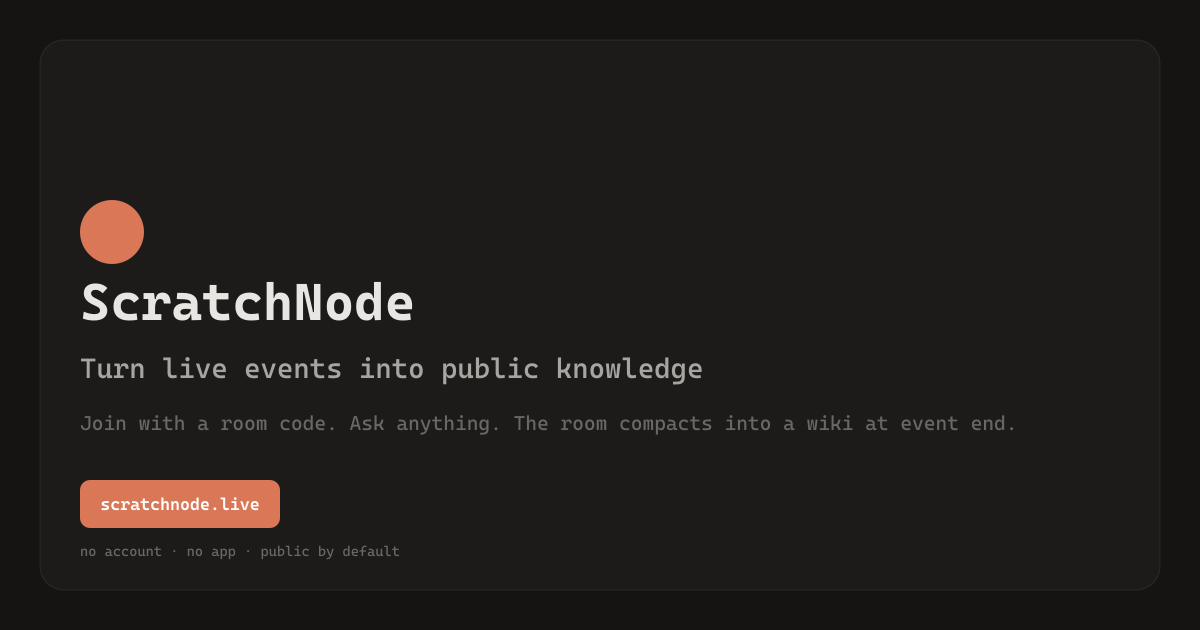
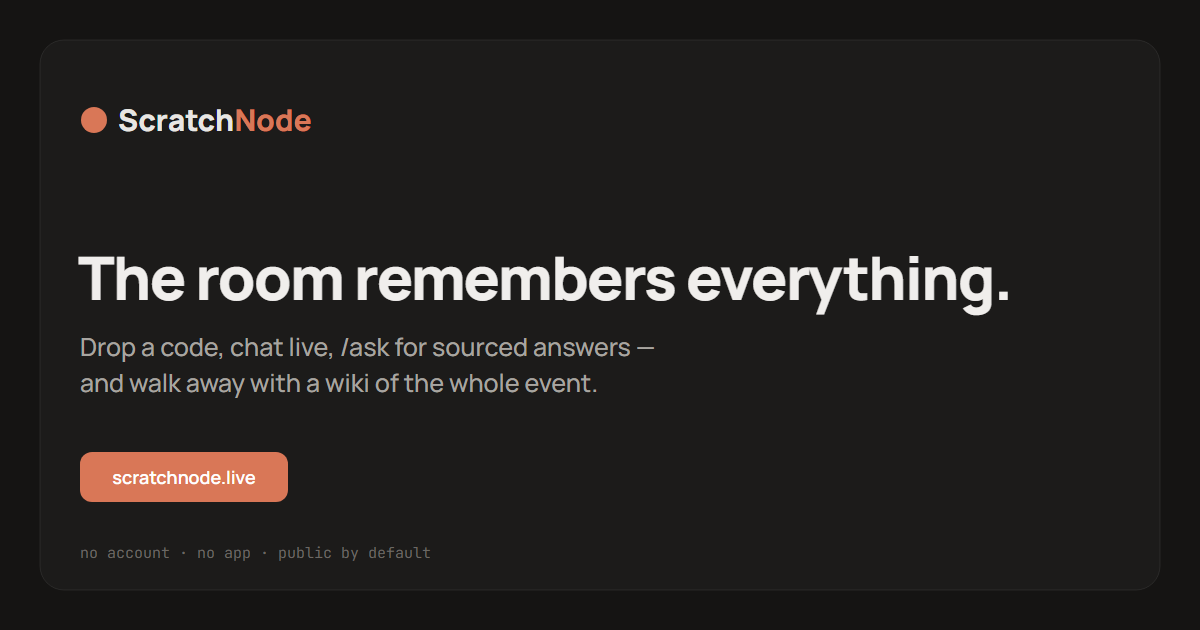
feat(scratchnode): live "big number" room counter on the landing (#473)
* feat(scratchnode): live "big number" room counter on the landing

Add an animated, reactive hero stat to the apex landing: a large room count
that ticks up the instant anyone, anywhere, creates a room — driven by a new
reactive Convex query events:getLandingStats (bounded scan, returns
{ roomsCreated, liveNow, capped }), not a client timer. A pulsing
"● N live right now" sub-line shows open rooms.

The counter gently floats with a soft accent glow; the number animates up via a
cubic ease when the reactive value changes. Motion-safe: subtle translate + a
small status-dot ring (no flashing), all gated under prefers-reduced-motion;
mobile scales the digits down.

Honesty (agentic_reliability HONEST_SCORES): every figure is a real row count,
no fabricated marketing number. The stat is hidden entirely until the backend
reports >=1 room (so an empty/offline backend never flashes a fake "0"),
enforced by both the render() guard and a .landing-pulse[hidden]{display:none}
rule (a class selector otherwise beats the UA [hidden] rule). The landing
subscription is read-only and never sets data-sn-live, so the apex stays
honestly "not live". Any config/client failure leaves the stat hidden and never
throws to the page.

BOUND: the count is a full table walk (no Convex count aggregate); capped at
5000, surfaced as "N+" rather than silently undercounting.

Covered by 3 new cases in scratchnode-live-route-honesty.spec.ts (real value
[…]

diff --git a/public/proto/home-v5.html b/public/proto/home-v5.html
@@ -4,8 +4,8 @@
 <meta charset="UTF-8">
 <meta name="viewport" content="width=device-width, initial-scale=1, viewport-fit=cover">
 <meta name="theme-color" content="#151413">
-<title>ScratchNode — sidecar event rooms with memory</title>
-<meta name="description" content="Join a disposable sidecar room with a code. Chat publicly, /ask for sourced answers, keep private anchored notes, and leave with a public wiki. No account needed.">
+<title>ScratchNode — the room remembers everything</title>
+<meta name="description" content="The room remembers everything. Drop a code, chat live, /ask for sourced answers, and walk away with a wiki of the whole event. No account, no app.">
 <link rel="canonical" href="https://scratchnode.live/">
 
 <!--
@@ -16,8 +16,8 @@
   pre-render or an OG image function, both of which are post-launch work.
 -->
 <meta property="og:site_name" content="ScratchNode">
-<meta property="og:title" content="ScratchNode — sidecar event rooms with memory">
-<meta property="og:description" content="Join with a room code. Public chat, sourced /ask answers, private notes, and a wiki handoff. No account needed.">
+<meta property="og:title" content="ScratchNode — the room remembers everything">
+<meta property="og:description" content="Drop a code, chat live, /ask for sourced answers, and leave with a wiki of everything that happened. No account, no app.">
 <meta property="og:type" content="website">
 <meta property="og:url" content="https://scratchnode.live/">
 <meta property="og:image" content="https://scratchnode.live/og-scratchnode.png">
@@ -28,8 +28,8 @@
 <!-- Twitter card -->
 <meta name="twitter:card" content="summary_large_image">
 <meta name="twitter:site" content="@scratchnode">
-<meta name="twitter:title" content="ScratchNode — sidecar event rooms with memory">
-<meta name="twitter:description" content="A disposable event brain: public chat, sourced /ask, private notes, and a wiki handoff. No account needed.">
+<meta name="twitter:title" content="ScratchNode — the room remembers everything">
+<meta name="twitter:description" content="The live event room that remembers: public chat, sourced /ask, private notes, and a wiki handoff. No account, no app.">
 <meta name="twitter:image" content="https://scratchnode.live/og-scratchnode.png">
 <meta name="twitter:image:alt" content="ScratchNode — live event knowledge room">
 
@@ -1703,6 +1703,66 @@ body[data-page-mode="landing"] .welcome {
   align-items: center;
   gap: 18px;
 }
+/* Live "big number" — real, reactive room counter. Gently floats; the count
+   animates up when the reactive Convex query pushes a new value. Motion-safe:
+   no flashing, subtle translate + small status-dot ring, all gated under
+   prefers-reduced-motion. */
+.landing-pulse {
+  display: flex;
+  flex-direction: column;
+  align-items: center;
+  gap: 2px;
+  margin-bottom: 4px;
+  animation: landing-pulse-float 5.5s ease-in-out infinite;
+}
+/* A class rule beats the UA [hidden]{display:none}, so make the hide explicit —
+   otherwise the counter would flash a dishonest "0" before real data arrives. */
+.landing-pulse[hidden] { display: none; }
+.landing-pulse__big {
+  font-family: var(--ui);
+  font-weight: 800;
+  font-size: 64px;
+  line-height: 1;
+  letter-spacing: -0.03em;
+  color: var(--accent);
+  text-shadow: 0 0 26px rgba(217,119,87,.42), 0 0 60px rgba(217,119,87,.16);
+  font-variant-numeric: tabular-nums;
+}
+.landing-pulse__suffix { font-size: 40px; opacity: .8; }
+.landing-pulse__label {
+  font-family: var(--ui);
+  font-size: 11px;
+  letter-spacing: 0.14em;
+  text-transform: uppercase;
+  color: var(--ink-muted);
+}
+.landing-pulse__live {
+  display: inline-flex;
+  align-items: center;
+  gap: 7px;
+  margin-top: 6px;
+  font-family: var(--ui);
+  font-size: 13px;
+  color: var(--ink-faint);
+}
+.landing-pulse__live #landing-pulse-live { color: var(--ink); font-weight: 600; }
+.landing-pulse__dot {
+  width: 7px;
+  height: 7px;
+  border-radius: 50%;
+  background: #4ade80;
+  box-shadow: 0 0 0 0 rgba(74,222,128,.55);
+  animation: landing-pulse-dot 2.4s ease-out infinite;
+}
+@keyframes landing-pulse-float {
+  0%, 100% { transform: translateY(0); }
+  50% { transform: translateY(-6px); }
+}
+@keyframes landing-pulse-dot {
+  0% { box-shadow: 0 0 0 0 rgba(74,222,128,.55); }
+  70% { box-shadow: 0 0 0 9px rgba(74,222,128,0); }
+  100% { box-shadow: 0 0 0 0 rgba(74,222,128,0); }
+}
 .landing-logo {
   font-family: var(--ui);
   font-weight: 800;
@@ -1893,6 +1953,8 @@ body[data-page-mode="landing"] .welcome {
   .landing-join button { width: 100%; }
   .landing-create-sub { flex-direction: column; }
   .landing-create button { width: 100%; }
+  .landing-pulse__big { font-size: 48px; }
+  .landing-pulse__suffix { font-size: 30px; }
 }
 @media (prefers-reduced-motion: reduce) {
   .landing-join input,
@@ -1900,6 +1962,8 @@ body[data-page-mode="landing"] .welcome {
   .landing-create input,
   .landing-create button,
   .landing-secondary { transition: none; }
+  .landing-pulse,
+  .landing-pulse__dot { animation: none; }
 }
 
 </style>
@@ -2097,14 +2161,111 @@ async function _landingCreate(ev) {
     return fail((e && e.message) || 'Unexpected error creating the room.');
   }
 }
+
+/**
+ * _snInitLandingStats — the live "big number" on the apex landing.
+ *
+ * Subscribes read-only to events:getLandingStats via a lazily-loaded Convex
+ * client and animates the room counter up when the reactive query pushes a new
+ * value (Convex re-runs the query for every subscriber the instant a room is
+ * created — true live updates, no client polling).
+ *
+ * Bulletproof + honest:
+ *   - Runs ONLY in landing mode; never sets data-sn-live (apex stays "not live").
+ *   - Never throws to the page; any failure leaves the stat hidden.
+ *   - Hides entirely when roomsCreated < 1 — never a fabricated number on an
+ *     empty or offline backend (agentic_reliability HONEST_SCORES).
+ */
+function _snFmtStat(n) {
+  try { return Number(n).toLocaleString('en-US'); } catch (e) { return String(n); }
+}
+function _snInitLandingStats() {
+  try {
+    if (!document.body || document.body.dataset.pageMode !== 'landing') return;
+    var wrap = document.getElementById('landing-pulse');
+    var numEl = document.getElementById('landing-pulse-num');
+    var liveEl = document.getElementById('landing-pulse-live');
+    var sufEl = document.getElementById('landing-pulse-suffix');
+    if (!wrap || !numEl || !liveEl) return;
+    var reduce = !!(window.matchMedia && window.matchMedia('(prefers-reduced-motion: reduce)').matches);
+    var shownRooms = 0;
+    var raf = null;
+
+    function animateTo(target) {
+      if (raf) { cancelAnimationFrame(raf); raf = null; }
+      if (reduce || shownRooms === target) { numEl.textContent = _snFmtStat(target); shownRooms = target; return; }
+      var from = shownRooms;
+      var start = null;
+      var dur = 750;
+      function step(ts) {
+        if (start === null) start = ts;
+        var p = Math.min(1, (ts - start) / dur);
+        var eased = 1 - Math.pow(1 - p, 3);
+        numEl.textContent = _snFmtStat(Math.round(from + (target - from) * eased));
+        if (p < 1) { raf = requestAnimationFrame(step); }
+        else { raf = null; shownRooms = target; }
+      }
+      raf = requestAnimationFrame(step);
+    }
+
+    function render(stats) {
+      if (!stats || typeof stats.roomsCreated !== 'number') return;
+      var rooms = stats.roomsCreated;
+      if (rooms < 1) { wrap.hidden = true; return; }  // honest: hide empty, never fake
+      wrap.hidden = false;
+      if (sufEl) sufEl.textContent = stats.capped ? '+' : '';
+      liveEl.textContent = _snFmtStat(Math.max(0, stats.liveNow || 0));
+      animateTo(rooms);
+    }
+
+    function connect() {
+      fetch('/api/scratchnode-config', { cache: 'no-store' })
+        .then(function (r) { if (!r.ok) throw new Error('cfg'); return r.json(); })
+        .then(function (cfg) {
+          if (!cfg || !cfg.convexUrl) throw new Error('nourl');
+          return import('https://esm.sh/convex@1.29.0/browser').then(function (mod) {
+            var ConvexClient = mod.ConvexClient;
+            if (!ConvexClient) throw new Error('noclient');
+            var client = new ConvexClient(cfg.convexUrl);
+            window._sn_landing_stats = { client: client };
+            client.onUpdate('events:getLandingStats', {}, function (stats) {
+              try { render(stats); } catch (e) {}
+            });
+          });
+        })
+        .catch(function () { /* honest: backend unreachable -> stat stays hidden */ });
+    }
+
+    if (window.requestIdleCallback) { requestIdleCallback(connect, { timeout: 2500 }); }
+    else { setTimeout(connect, 450); }
+  } catch (e) { /* never break the landing */ }
+}
+if (document.readyState === 'loading') {
+  document.addEventListener('DOMContentLoaded', _snInitLandingStats);
+} else {
+  _snInitLandingStats();
+}
 </script>
 
 <!-- Landing-mode hero — visible only when data-page-mode === "landing" -->
 <section class="landing" role="region" aria-label="ScratchNode landing">
   <div class="landing-hero">
+    <!-- Live "big number" — real, reactive room count. Hidden until the live
+         backend reports >=1 room (no fabricated number on an empty/offline
+         backend). Ticks up the instant anyone, anywhere, creates a room. -->
+    <div class="landing-pulse" id="landing-pulse" aria-live="polite" hidden>
+      <div class="landing-pulse__big">
+        <span id="landing-pulse-num">0</span><span class="landing-pulse__suffix" id="landing-pulse-suffix"></span>
+      </div>
+      <div class="landing-pulse__label">rooms spun up on ScratchNode</div>
+      <div class="landing-pulse__live">
+        <span class="landing-pulse__dot" aria-hidden="true"></span>
+        <span id="landing-pulse-live">0</span> live right now
+      </div>
+    </div>
     <span class="landing-logo">Scratch<span>Node</span></span>
-    <h1>A disposable sidecar room for live event memory.</h1>
-    <p>Bring your Luma, Slack, or Eventbrite crowd. Anyone with a room code can join, chat publicly, use <code style="font-family:var(--mono);background:rgba(217,119,87,.12);color:var(--accent);padding:1px 6px;border-radius:3px">/ask</code> for sourced answers, and keep private notes that never enter the public room.</p>
+    <h1>The room remembers everything.</h1>
+    <p>Drop a code, chat live, hit <code style="font-family:var(--mono);background:rgba(217,119,87,.12);color:var(--accent);padding:1px 6px;border-radius:3px">/ask</code> for sourced answers — and walk away with a wiki of everything that happened. No account, no app.</p>
     <form class="landing-join" onsubmit="return _landingJoin(event)" aria-label="Join an event by room code">
       <input type="text" placeholder="Enter room code (e.g. ORBITAL)" aria-label="Room code" maxlength="60" autocomplete="off" autocapitalize="off" spellcheck="false">
       <button type="submit">Join &rarr;</button>

diff --git a/tests/e2e/scratchnode-live-route-honesty.spec.ts b/tests/e2e/scratchnode-live-route-honesty.spec.ts
@@ -114,6 +114,10 @@ async function fulfillScratchNodePage(
             if (name === 'events:getMembers') {
               setTimeout(() => cb([{ displayName: 'Mock Host' }, { displayName: 'Mock Guest' }]), 0);
             }
+            if (name === 'events:getLandingStats') {
+              const s = window.__snLandingStats || { roomsCreated: 0, liveNow: 0, capped: false };
+              setTimeout(() => cb(s), 0);
+            }
           }
         }
       `,
@@ -374,5 +378,50 @@ test.describe("ScratchNode live route honesty", () => {
       await page.evaluate(() => localStorage.getItem("sn_host_owner_key_v2")),
     ).toBeNull();
     await expect(page.locator("#landing-create-btn")).toBeEnabled();
+  });
+
+  test("landing surfaces a live 'big number' room counter from real backend data", async ({ page }) => {
+    await fulfillScratchNodePage(page);
+    await page.addInitScript(() => {
+      (window as any).__snLandingStats = { roomsCreated: 1342, liveNow: 7, capped: false };
+    });
+
+    await page.goto("https://scratchnode.live/", { waitUntil: "domcontentloaded" });
+    await expect(page.locator("#landing-pulse")).toBeVisible({ timeout: 6_000 });
+    // The big number is the EXACT reactive backend count — never a marketing figure.
+    await expect
+      .poll(() => page.locator("#landing-pulse-num").textContent(), { timeout: 6_000 })
+      .toBe("1,342");
+    await expect(page.locator("#landing-pulse-live")).toHaveText("7");
+    await expect(page.locator("#landing-pulse-suffix")).toHaveText("");
+  });
+
+  test("landing big-number renders a '+' suffix when the scan cap is hit", async ({ page }) => {
+    await fulfillScratchNodePage(page);
+    await page.addInitScript(() => {
+      (window as any).__snLandingStats = { roomsCreated: 5000, liveNow: 23, capped: true };
+    });
+
+    await page.goto("https://scratchnode.live/", { waitUntil: "domcontentloaded" });
+    await expect(page.locator("#landing-pulse")).toBeVisible({ timeout: 6_000 });
+    await expect
+      .poll(() => page.locator("#landing-pulse-num").textContent(), { timeout: 6_000 })
+      .toBe("5,000");
+    await expect(page.locator("#landing-pulse-suffix")).toHaveText("+");
+  });
+
+  test("landing big-number stays hidden (never fabricated) when zero rooms exist", async ({ page }) => {
+    await fulfillScratchNodePage(page);
+    await page.addInitScript(() => {
+      (window as any).__snLandingStats = { roomsCreated: 0, liveNow: 0, capped: false };
+    });
+
+    await page.goto("https://scratchnode.live/", { waitUntil: "domcontentloaded" });
+    // Give the reactive subscription time to deliver the zero value, then assert
+    // the counter is NOT shown — an empty backend never produces a fake number.
+    await page.waitForTimeout(1_500);
+    await expect(page.locator("#landing-pulse")).toBeHidden();
+    // The landing still works — Join + Create remain available.
+    await expect(page.locator("#landing-create-btn")).toBeVisible();
   });
 });

diff --git a/convex/events.ts b/convex/events.ts
@@ -818,6 +818,40 @@ export const getEventBySlug = query({
   },
 });
 
+// BOUND (agentic_reliability): cap the landing-stats scan. The count is a full
+// table walk (no count aggregate in Convex); 5000 keeps it cheap even on a
+// hot landing while staying far above current room volume. When the cap is hit
+// the UI honestly renders "N+" rather than silently undercounting.
+const MAX_LANDING_STATS_SCAN = 5000;
+
+/**
+ * Live landing stats — powers the animated "big number" on the apex landing.
+ *
+ * Convex queries are REACTIVE: every subscribed landing visitor's counter ticks
+ * up the instant anyone creates a room — no polling, no client timers.
+ *
+ * Honesty (agentic_reliability HONEST_SCORES): every number is a real row count.
+ * No hardcoded floor, no inflation. `roomsCreated` counts every room ever made
+ * (ended rooms keep their row); `liveNow` counts rooms still open (status=live).
+ * When the backend is unreachable the landing HIDES the stat entirely rather
+ * than render a fabricated number (the client enforces the hide).
+ */
+export const getLandingStats = query({
+  args: {},
+  handler: async (ctx) => {
+    const rows = await ctx.db.query("liveEvents").take(MAX_LANDING_STATS_SCAN);
+    let liveNow = 0;
+    for (const row of rows) {
+      if (row.status === "live") liveNow += 1;
+    }
+    return {
+      roomsCreated: rows.length,
+      liveNow,
+      capped: rows.length >= MAX_LANDING_STATS_SCAN,
+    };
+  },
+});
+
 /**
  * Realtime message stream. The Convex client re-runs this on every change.
  * Ordered ascending by createdAt so the latest is last (matches UI append order).

diff --git a/CHANGELOG/pages/proto-home-v5.md b/CHANGELOG/pages/proto-home-v5.md
@@ -2,6 +2,45 @@
 
 Append-only lane for the ScratchNode live-event prototype and production static surface.
 
+## 2026-06-02 — Rewrite the landing headline for a viral hook
+Replaced the feature-describing hero line "A disposable sidecar room for live event
+memory" (jargon: "disposable", "sidecar"; no emotional/temporal hook — nobody screenshots
+it) with an outcome-first, say-it-out-loud headline: **"The room remembers everything."**
+Lineage: Linear ("the issue tracker you'll enjoy using" — emotional outcome), Slido
+("audience interaction made easy" — the closest live-event-Q&A comp), Luma ("delightful
+events start here"). The features (`/ask`, wiki handoff, no-account) move into the
+sub-headline where they belong: "Drop a code, chat live, hit /ask for sourced answers —
+and walk away with a wiki of everything that happened. No account, no app." Updated `<title>`,
+meta description, and all OG/Twitter card tags to match so shared links carry the new hook.
+Also regenerated the OG share card (`public/og-scratchnode.svg` → `og-scratchnode.png`,
+1200×630) with the new headline via a new reusable rasterizer `scripts/ui/renderOgImage.mjs`
+(Playwright + brand fonts), so Slack/Discord/X/iMessage link previews match the site.
+
+**Commit**: `this commit`. **Author**: Homen Shum + Claude.
+
+## 2026-06-02 — Live "big number" room counter on the landing
+Added an animated, reactive hero stat to the apex landing: a large room-count that
+**ticks up the instant anyone, anywhere, creates a room** — driven by a new reactive
+Convex query `events:getLandingStats` (bounded scan, returns `{ roomsCreated, liveNow,
+capped }`), not a client timer. A pulsing "● N live right now" sub-line shows open rooms.
+
+The counter gently floats with a soft accent glow; the number animates up via a cubic
+ease when the reactive value changes. Motion-safe: subtle translate + small status-dot
+ring (no flashing), all gated under `prefers-reduced-motion`. Mobile scales the digits down.
+
+Honesty (`agentic_reliability` HONEST_SCORES): every figure is a real row count — no
+fabricated marketing number. The stat is **hidden entirely** until the backend reports
+≥1 room (so an empty or offline backend never flashes a fake "0"), enforced by both the
+`render()` guard and a `.landing-pulse[hidden]{display:none}` rule (a class selector
+otherwise beats the UA `[hidden]` rule). The landing subscription is read-only and never
+sets `data-sn-live`, so the apex stays honestly "not live". Bulletproof: any config/client
+failure leaves the stat hidden and never throws to the page.
+
+Covered by 3 new cases in `scratchnode-live-route-honesty.spec.ts` (real value renders
+`1,342`, scan-cap renders `5,000+`, zero rooms stays hidden). 13/13 honesty suite green.
+
+**Commit**: `this commit`. **Author**: Homen Shum + Claude.
+
 ## 2026-06-02 — Add a self-serve "Create a room" front-door to the landing
 The apex landing only offered a "Join with a code" form — a first-time visitor had
 no way to actually create a room. `events:createEvent` existed in the backend and a
